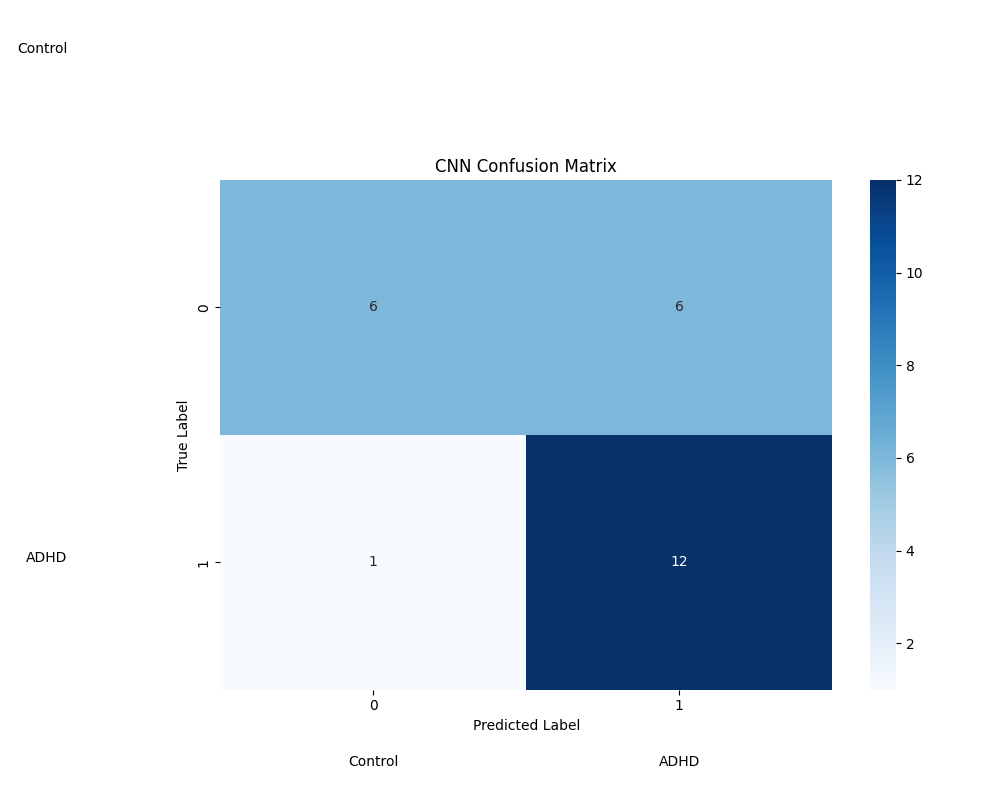
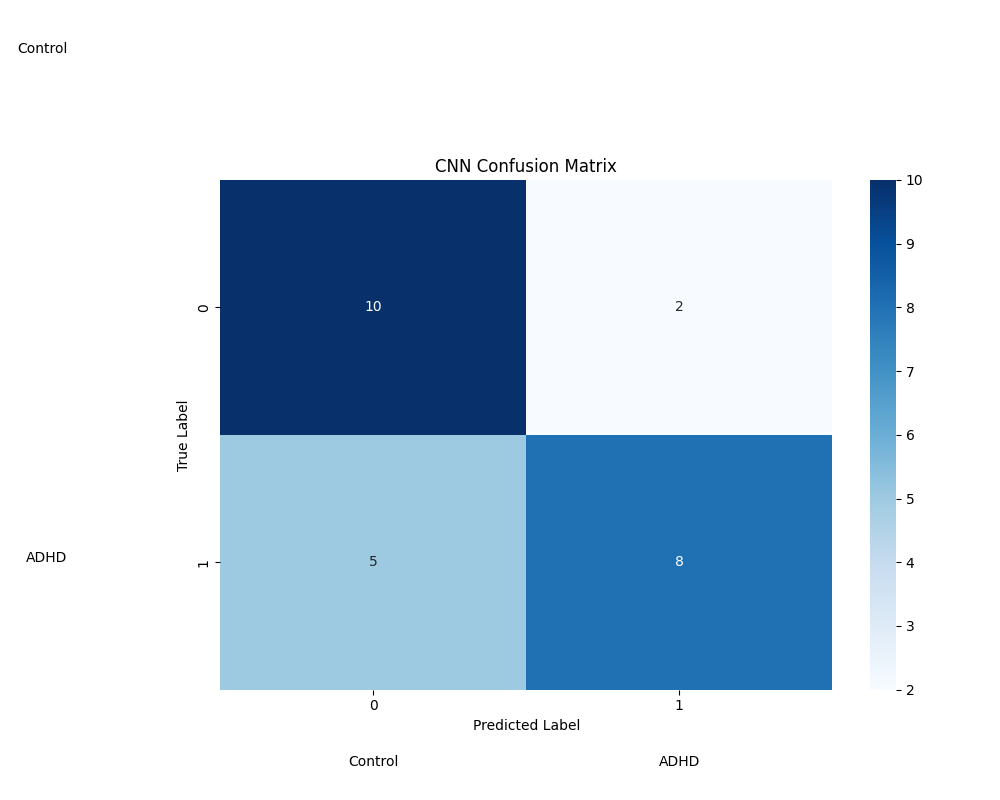
Removed README.html added plots modifications

diff --git a/EGG_classifier.py b/EGG_classifier.py
@@ -117,7 +117,7 @@ def create_cnn_model(input_shape):
     model.compile(
         optimizer=optimizer,
         loss='binary_crossentropy',
-        metrics=['accuracy']
+        metrics=['accuracy', keras.metrics.Precision(), keras.metrics.Recall()]
     )
 
     model.summary()
@@ -147,18 +147,18 @@ def plot_confusion_matrix(cm, title, filename):
 def plot_metrics(metrics_dict, model_name):
     """Plot and save performance metrics."""
     plt.figure(figsize=(10, 6))
-    metrics = ['Accuracy']
+    metrics = ['Precision', 'Recall', 'Accuracy']
     values = [metrics_dict[m.lower()] for m in metrics]
 
-    bars = plt.bar(metrics, values, color=['#9b59b6'])
+    bars = plt.bar(metrics, values, color=['#2ecc71', '#3498db', '#9b59b6'])
     plt.ylim(0, 1.0)
     plt.title(f'{model_name} Performance Metrics')
 
     for bar in bars:
         height = bar.get_height()
-        plt.text(bar.get_x() + bar.get_width() / 2., height,
-                 f'{height:.3f}',
-                 ha='center', va='bottom')
+        plt.text(bar.get_x() + bar.get_width()/2., height,
+                f'{height:.3f}',
+                ha='center', va='bottom')
 
     plt.tight_layout()
     filepath = os.path.join(PLOT_DIR, f'{model_name.lower()}_metrics.png')
@@ -172,7 +172,7 @@ def plot_training_history(history, filename):
     plt.figure(figsize=(15, 5))
 
     # Plot loss
-    plt.subplot(1, 3, 1)
+    plt.subplot(1, 2, 1)
     plt.plot(history.history['loss'], label='Training Loss')
     plt.plot(history.history['val_loss'], label='Validation Loss')
     plt.title('Model Loss')
@@ -181,13 +181,14 @@ def plot_training_history(history, filename):
     plt.legend()
 
     # Plot accuracy
-    plt.subplot(1, 3, 2)
+    plt.subplot(1, 2, 2)
     plt.plot(history.history['accuracy'], label='Training Accuracy')
     plt.plot(history.history['val_accuracy'], label='Validation Accuracy')
     plt.title('Model Accuracy')
     plt.xlabel('Epoch')
     plt.ylabel('Accuracy')
     plt.legend()
+
 
     plt.tight_layout()
     filepath = os.path.join(PLOT_DIR, filename)
@@ -223,7 +224,6 @@ def main():
         X, y, test_size=0.2, random_state=42, stratify=y
     )
 
-
     # Train and evaluate CNN
     print("\nTraining and evaluating CNN model...")
     cnn_model = create_cnn_model((X.shape[1], X.shape[2]))
@@ -250,24 +250,33 @@ def main():
     # Evaluate CNN
     y_pred_proba = cnn_model.predict(X_test, verbose=0)
     y_pred = (y_pred_proba > 0.5).astype(int)
+
+
+    # Calculate metrics
     cm = confusion_matrix(y_test, y_pred)
-
-    # Calculate CNN metrics
-
+    precision = precision_score(y_test, y_pred)
+    recall = recall_score(y_test, y_pred)
     accuracy = (cm[0, 0] + cm[1, 1]) / cm.sum()
+    f1 = 2 * (precision * recall) / (precision + recall)
 
 
-    cnn_metrics = {
+    metrics = {
         'confusion_matrix': cm,
-        'accuracy': accuracy
+        'precision': precision,
+        'recall': recall,
+        'accuracy': accuracy,
+        'f1': f1
     }
 
     plot_confusion_matrix(cm, 'CNN Confusion Matrix', 'cnn_confusion_matrix.png')
-    plot_metrics(cnn_metrics, 'CNN')
+    plot_metrics(metrics, 'CNN')
 
-    print("\nCNN Results:")
+
+    print("\nResults:")
     print(f"Accuracy: {accuracy:.4f}")
-
+    print(f"Precision: {precision:.4f}")
+    print(f"Recall: {recall:.4f}")
+    print(f"F1-Score: {f1:.4f}")
 
 
 if __name__ == "__main__":

diff --git a/README.md b/README.md
@@ -38,9 +38,11 @@
 
 
 <h4>Refrences</h4>
-        <div class="section">
-            <p class="highlight">
+        <div>
+            <p>
+                ```bash
                 Data is taken from the
+                ```
             <a  href="https://ieee-dataport.org/open-access/eeg-data-adhd-control-children"> link </a>
             </p>
         </div>
@@ -51,4 +53,31 @@
             <p>
             </p>
         </div>
+
+<h2 style="background-color:blue">Installation required</h2>
+<div>
+Here's the pip installation command for all required libraries:
+
+```bash
+pip install numpy pandas scikit-learn tensorflow matplotlib seaborn
+```
+
+This single command will install all necessary packages:
+- numpy: For numerical computations
+- pandas: For data manipulation and CSV reading
+- scikit-learn: For StandardScaler, train_test_split, and metrics
+- tensorflow: Includes keras for deep learning
+- matplotlib: For plotting
+- seaborn: For enhanced visualizations
+
+Note:
+- tensorflow automatically includes keras
+- pathlib and os are built-in Python libraries, so they don't need installation
+- sys is also a built-in Python library
+
+If you're setting up a new environment, you might want to specify versions for stability:
+```bash
+pip install numpy==1.24.3 pandas==2.0.3 scikit-learn==1.3.0 tensorflow==2.15.0 matplotlib==3.7.2 seaborn==0.12.2
+```
+</div>
 
